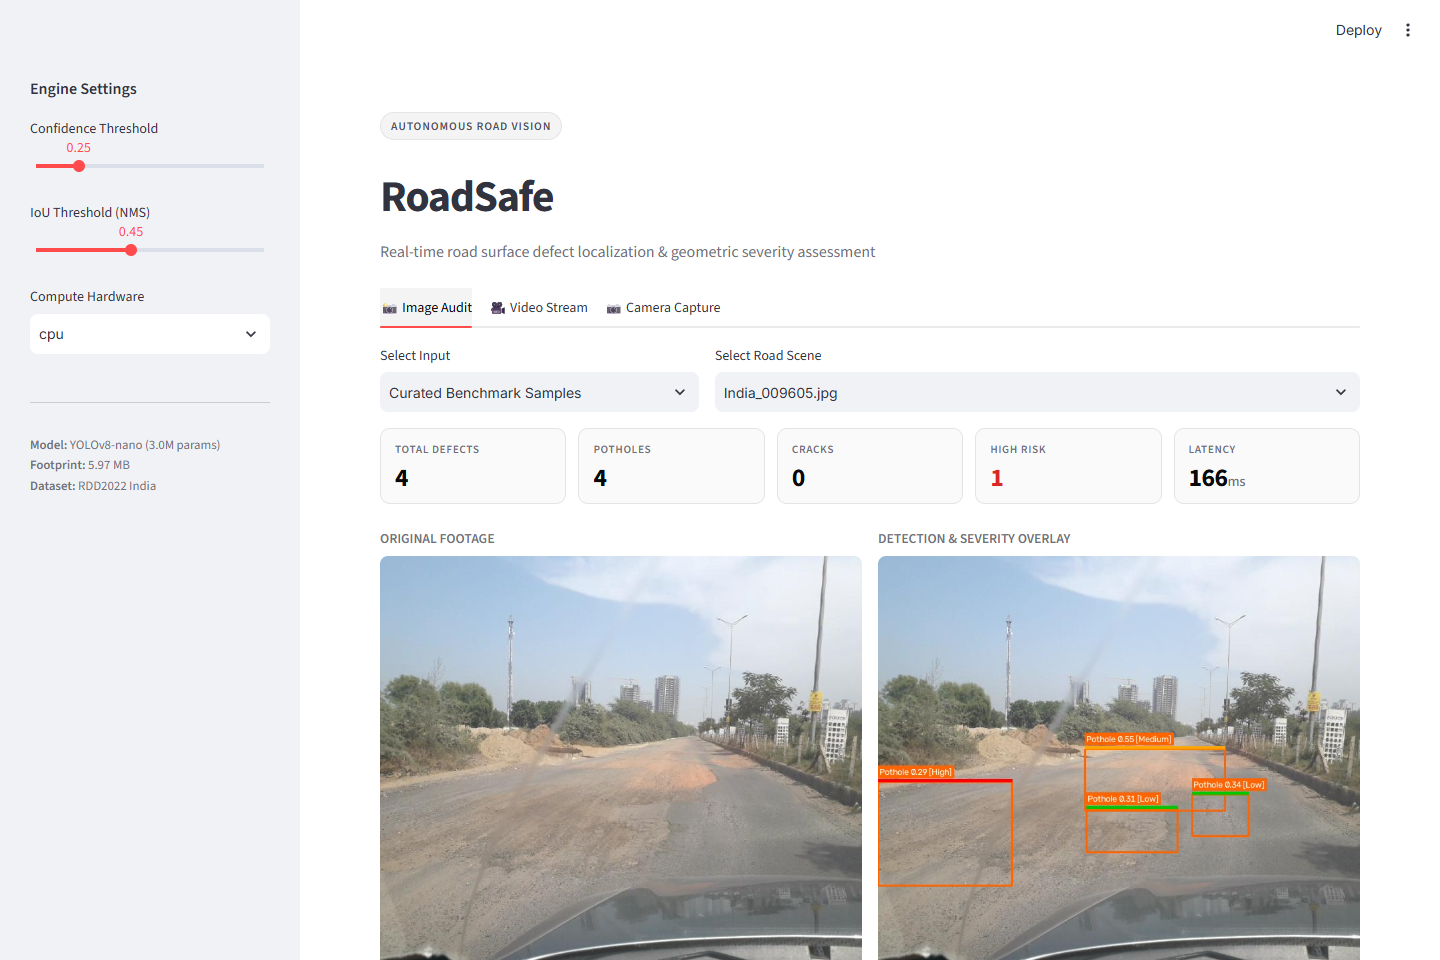
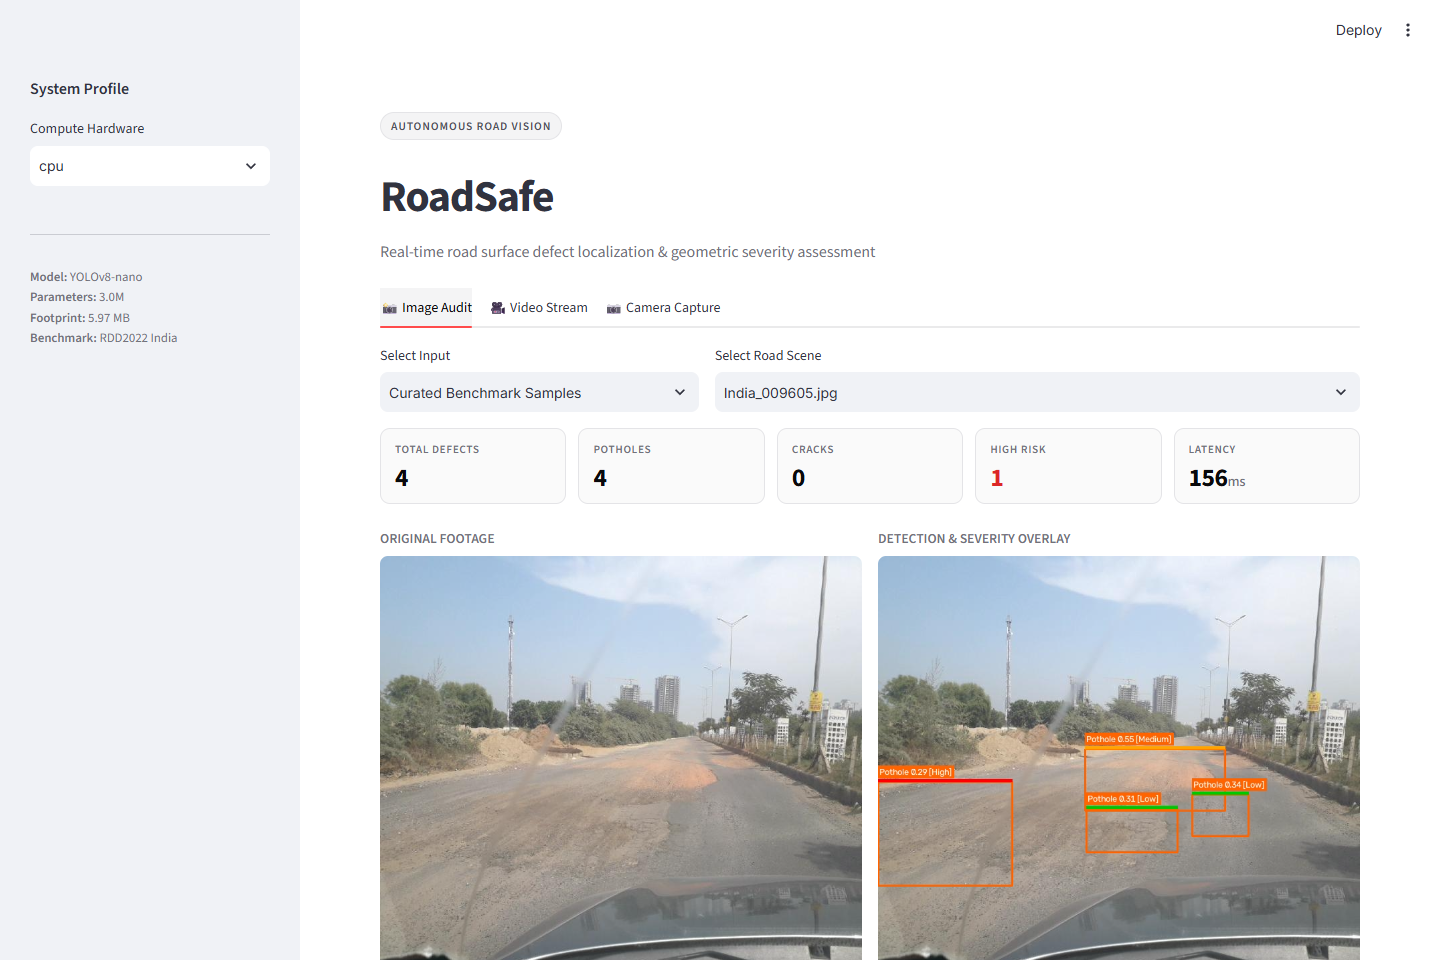
style: remove real-time confidence and IoU sliders for clean minimalist UI

Changed region(s): [[0.0, 0.2188, 0.125, 0.375], [0.0312, 0.0625, 0.1875, 0.1875], [0.0312, 0.4375, 0.1562, 0.5312]]

diff --git a/app.py b/app.py
@@ -196,20 +196,22 @@ def main():
     </div>
     """, unsafe_allow_html=True)
 
-    # ── Sidebar Controls ─────────────────────────────────────
-    st.sidebar.markdown("**Engine Settings**")
-    conf_threshold = st.sidebar.slider("Confidence Threshold", min_value=0.10, max_value=0.90, value=0.25, step=0.05)
-    iou_threshold = st.sidebar.slider("IoU Threshold (NMS)", min_value=0.20, max_value=0.80, value=0.45, step=0.05)
+    # Fixed calibrated thresholds (cleaner, distraction-free interface)
+    conf_threshold = 0.25
+    iou_threshold = 0.45
 
+    # ── Sidebar Controls ─────────────────────────────────────
+    st.sidebar.markdown("**System Profile**")
     device_options = ["cpu", "0"] if torch.cuda.is_available() else ["cpu"]
     selected_device = st.sidebar.selectbox("Compute Hardware", device_options, index=0)
 
     st.sidebar.markdown("---")
     st.sidebar.markdown("""
-    <div style="font-size: 0.8rem; color: #71717A;">
-        <strong>Model:</strong> YOLOv8-nano (3.0M params)<br>
+    <div style="font-size: 0.8rem; color: #71717A; line-height: 1.6;">
+        <strong>Model:</strong> YOLOv8-nano<br>
+        <strong>Parameters:</strong> 3.0M<br>
         <strong>Footprint:</strong> 5.97 MB<br>
-        <strong>Dataset:</strong> RDD2022 India
+        <strong>Benchmark:</strong> RDD2022 India
     </div>
     """, unsafe_allow_html=True)
 
